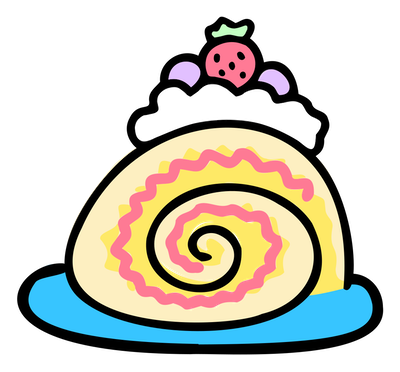
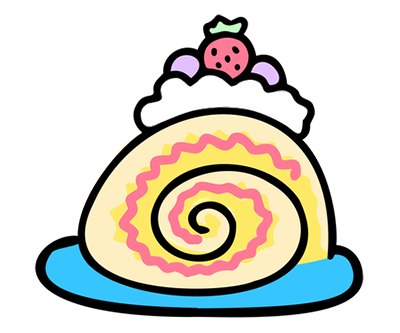
Edited placeholder images to be the same resolution

Changed region(s): [[0.03, 0.03, 0.96, 0.961], [0.51, 0.3303, 0.54, 0.3604], [0.42, 0.8108, 0.45, 0.8408]]

diff --git a/src/assets/index.js b/src/assets/index.js
@@ -1,0 +1,7 @@
+import Cocktail from "./cocktail.png";
+import HeroImage from "./hero_image.png";
+import Roll from "./swiss_roll.png";
+import Salad from "./salad.png";
+import Taco from "./taco.png";
+
+export { Cocktail, HeroImage, Roll, Salad, Taco };
